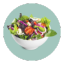
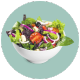
prueba con iconos para el home

diff --git a/src/data/dataCategories.js b/src/data/dataCategories.js
@@ -1,7 +1,7 @@
 export default [
   {
     title: "Entrantes",
-    picture: "https://drive.google.com/file/d/1yedMFgrccWKkraOSLQU5tpBvc8B2fzWe/view?usp=sharing",
+    picture: "https://github.com/Mica-Grand/grandoso-desafio3/blob/main/assets/img/ensalada.png?raw=true",
   },
   {
     title: "Platos principales",
